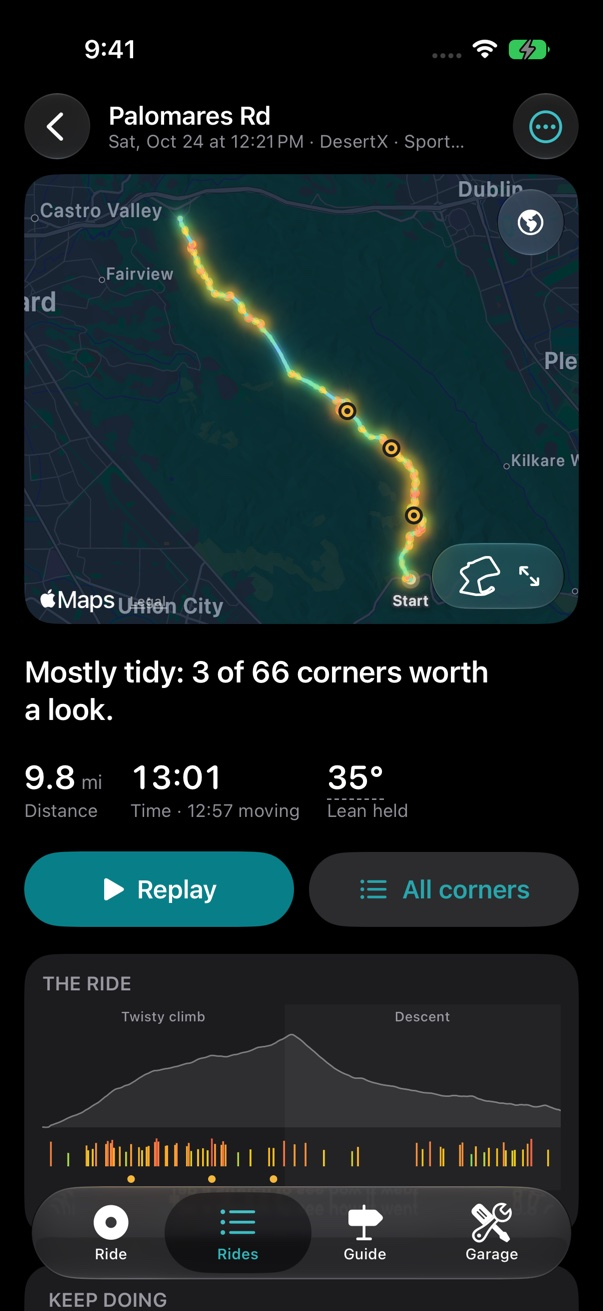
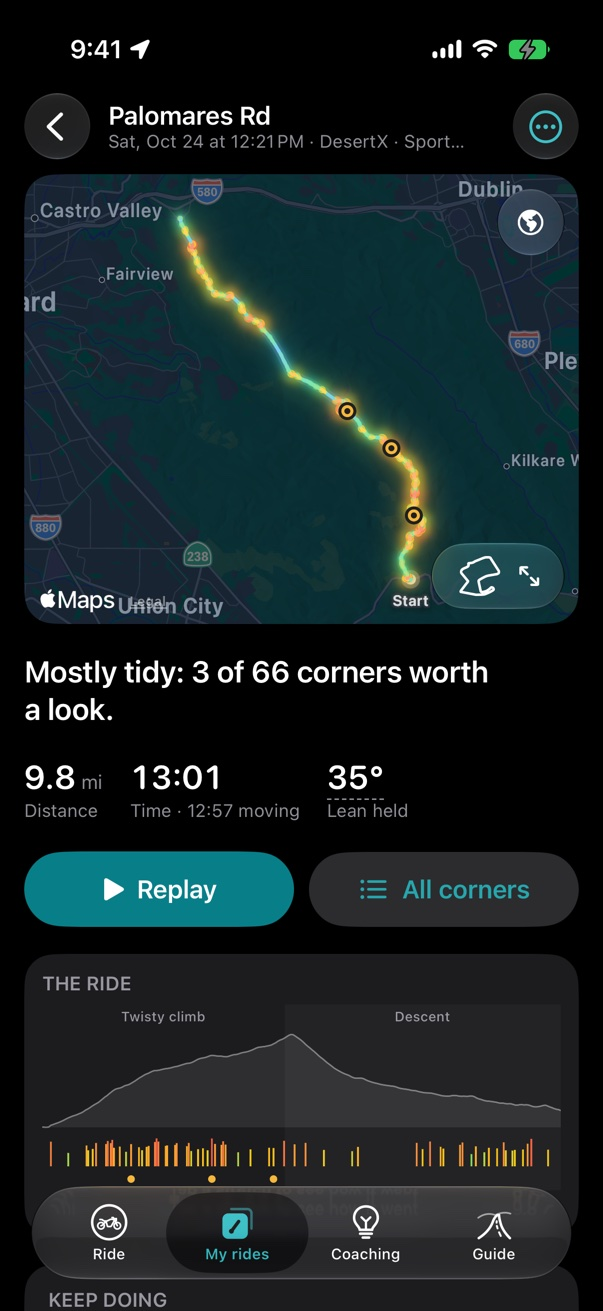
Beta page: match the current app, speak as "we"
- "Tell me" / "What I'd like you to do" now say "us" / "we", as the
  privacy policy does.
- What it does: Coaching (one thing to work on, drawn from your rides,
  with what each piece of feedback means) and the Guide (curvy paved
  roads and loops near you from the built-in library, California for
  now), the app's two newer tabs.
- What you need: an optional iPad for reviewing rides through the same
  iCloud Drive folder (it doesn't record); the hero line says iPad
  optional.
- Ride normally: background recording is now described as expected,
  with a request to report it if it stops, instead of "will work just
  fine" (a fresh-install locked-screen ride hasn't been checked yet).
- screen-ride.jpg recaptured: the old one showed the previous tab bar
  (Ride, Rides, Guide, Garage); now Ride, My rides, Coaching, Guide.

Checked: served locally at 390 px wide, no horizontal overflow, all
images load; no first person left on the home or beta pages. Not
pushed. Copy still awaits Gabe's read-through.

diff --git a/beta/index.html b/beta/index.html
@@ -25,7 +25,7 @@
         <h1>Help test Palomares</h1>
         <p class="lede">Record the ride, then look back at the corners: your lean, speed and how the bike slowed and accelerated. Replay it on the map and explore the report afterward.</p>
         <a class="button" href="#join">About invitations</a>
-        <p class="meta">iPhone with iOS 26+ · a small invited group · free during the beta</p>
+        <p class="meta">iPhone with iOS 26+ (iPad optional) · a small invited group · free during the beta</p>
       </div>
     </div>
   </div>
@@ -35,7 +35,7 @@
       <div class="wrap">
         <p class="eyebrow">What it does</p>
         <h2>Your phone’s sensors, on your bike, analyzed privately on your phone.</h2>
-        <p class="lede">See how one corner led into the next, revisit the moments worth a look, and compare a familiar stretch with your own earlier rides. A real ride on Palomares Road comes with the app, so you can explore before recording your own.</p>
+        <p class="lede">See how one corner led into the next, revisit the moments worth a look, and compare a familiar stretch with your own earlier rides. Coaching suggests one thing to work on, drawn from your rides, and explains what each piece of feedback means. The Guide suggests curvy paved roads and loops near you from a road library built into the app (California for now). A real ride on Palomares Road comes with the app, so you can explore before recording your own.</p>
 
         <div class="screens">
           <figure class="screen">
@@ -62,7 +62,7 @@
     <section class="grouped">
       <div class="wrap">
         <p class="eyebrow">The beta</p>
-        <h2>Try it on your own bike, and tell me where it’s right and where it’s wrong.</h2>
+        <h2>Try it on your own bike, and tell us where it’s right and where it’s wrong.</h2>
         <div class="cards" style="margin-top:28px">
           <div class="card">
             <h3>What you need</h3>
@@ -71,6 +71,7 @@
               <li>A secure motorcycle phone mount that keeps the phone stable. Follow the mount maker’s instructions for your phone and motorcycle.</li>
               <li>Apple’s <a href="https://apps.apple.com/app/testflight/id899247664">TestFlight</a> app and an invitation when the beta is ready.</li>
               <li>A few rides of 20 minutes or more over the next few weeks.</li>
+              <li>Optional: an iPad to review rides on a bigger screen. Choose the same iCloud Drive folder in Garage on both devices; the iPad doesn’t record.</li>
             </ul>
           </div>
           <div class="card">
@@ -88,15 +89,15 @@
 
     <section>
       <div class="wrap narrow">
-        <p class="eyebrow">What I’d like you to do</p>
+        <p class="eyebrow">What we’d like you to do</p>
         <h2>Five steps</h2>
         <ol class="steps" style="margin-top:28px">
           <li><strong>Set up before you ride.</strong> Add your motorcycle and mount, allow location and motion, and start the recording before you set off.</li>
-          <li><strong>Ride normally,</strong> with the screen locked if that’s what you usually do. The app will also work just fine in the background if you use navigation or something else. Stop the
+          <li><strong>Ride normally,</strong> with the screen locked if that’s what you usually do, or with navigation or another app in front. Recording should keep going in the background; if it ever stops, that’s one of the most useful things to tell us. Stop the
             recording when you’re parked.</li>
           <li><strong>Review your ride afterward:</strong> the replay, the corners worth a look and the report. Does it match how the ride felt?</li>
           <li><strong>Optionally send a ride for review.</strong> In the ride’s ⋯ menu, choose Send for review, check what the file contains in the <a href="../privacy/#receive">privacy policy</a>, and email it to <a href="mailto:beta@palomares.app">beta@palomares.app</a>.</li>
-          <li><strong><a href="#feedback">Tell me how it went.</a></strong> After two or three rides, email what worked, what felt wrong, and anything that was confusing. TestFlight feedback is useful for bugs and screenshots.</li>
+          <li><strong><a href="#feedback">Tell us how it went.</a></strong> After two or three rides, email what worked, what felt wrong, and anything that was confusing. TestFlight feedback is useful for bugs and screenshots.</li>
         </ol>
         <p class="muted">Feedback and ride submissions are optional. You can use the beta without sending a ride. Check screenshots and attachments before sending them: they may include places, notes or other details you want to keep private.</p>
       </div>

diff --git a/README.md b/README.md
@@ -53,12 +53,15 @@ All assets are local in `assets/`:
   iPhone 17 Pro / iOS 27 Simulator, dark appearance and a 9:41 status bar. They show
   the bundled Palomares Road sample `2026-10-24_122105_Sample`, replacing the old
   Redwood sample. Captures keep the complete screen and Apple Maps attribution.
+  `screen-ride.jpg` was recaptured later on October 26 (debug build `d1c3f78-dirty`,
+  map base forced with `mapbase=map`) to show the current tabs: Ride, My rides,
+  Coaching, Guide.
 - `share-story.jpg`: the app-generated Story picture from that same sample,
   retrieved from the debug render `tmp/sharepic.png`; no map or photo was invented.
 
 Launch the sample with `SIMCTL_CHILD_RIDELOGGER_DEMO` set to:
 
-- Ride: `ride=2026-10-24_122105_Sample;drawin=4`
+- Ride: `ride=2026-10-24_122105_Sample;drawin=4;mapbase=map`
 - Replay: `ride=2026-10-24_122105_Sample;replay=1;seek=5:20`
 - Corner: `ride=2026-10-24_122105_Sample;corner=11`
 - Story: `ride=2026-10-24_122105_Sample;sharepic=story`
